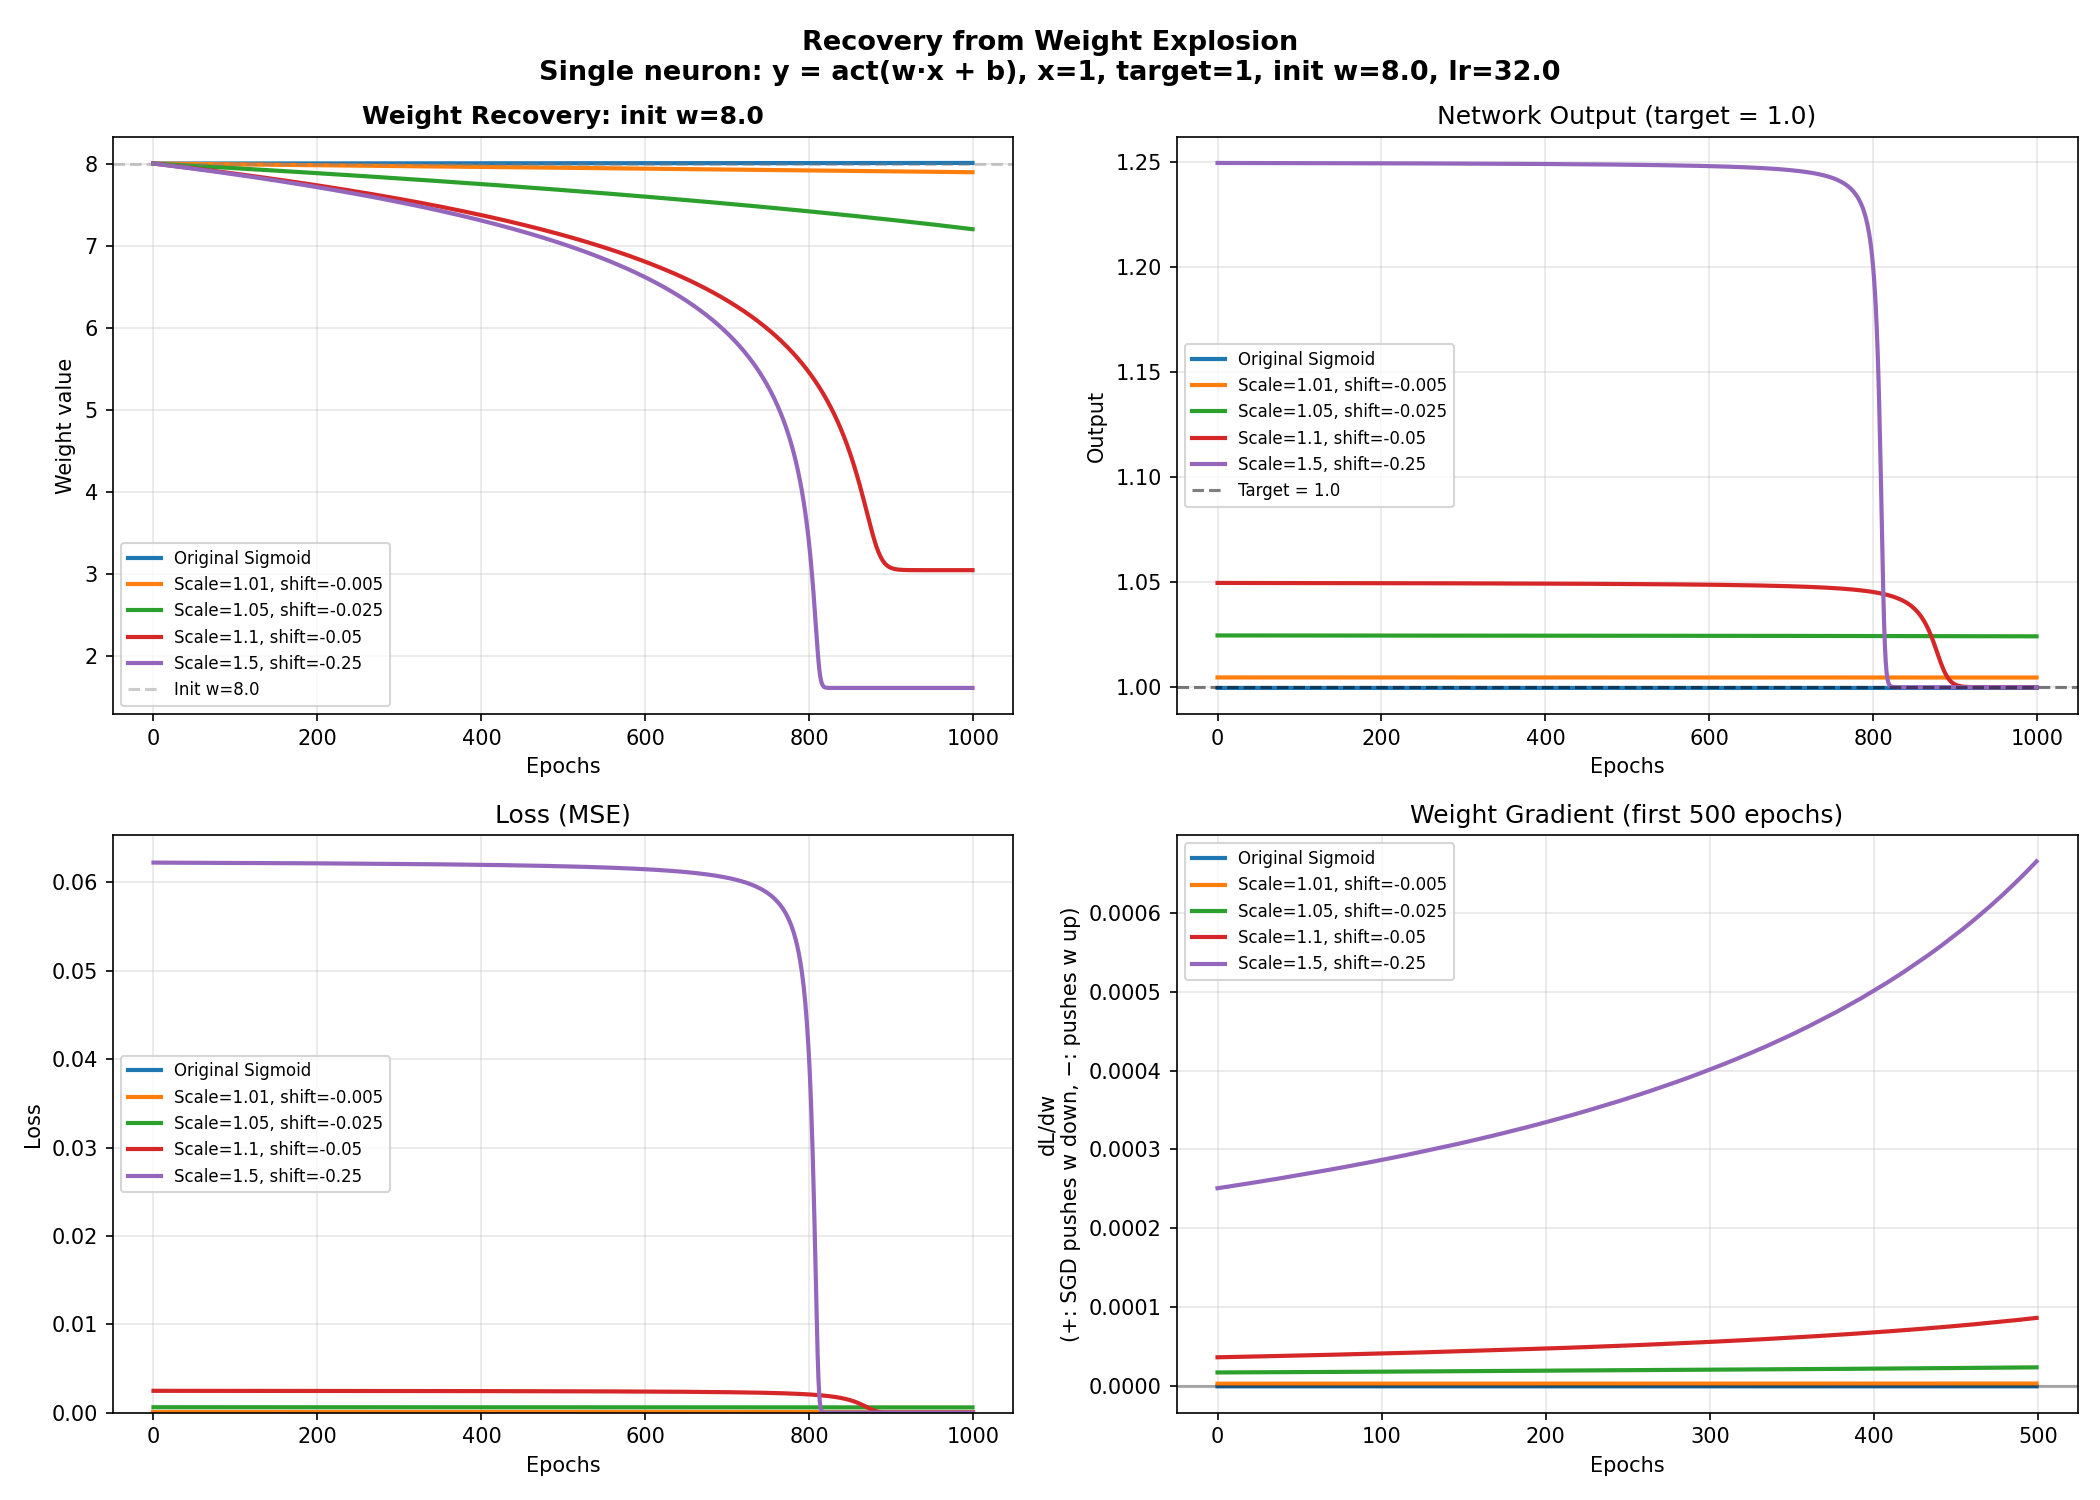
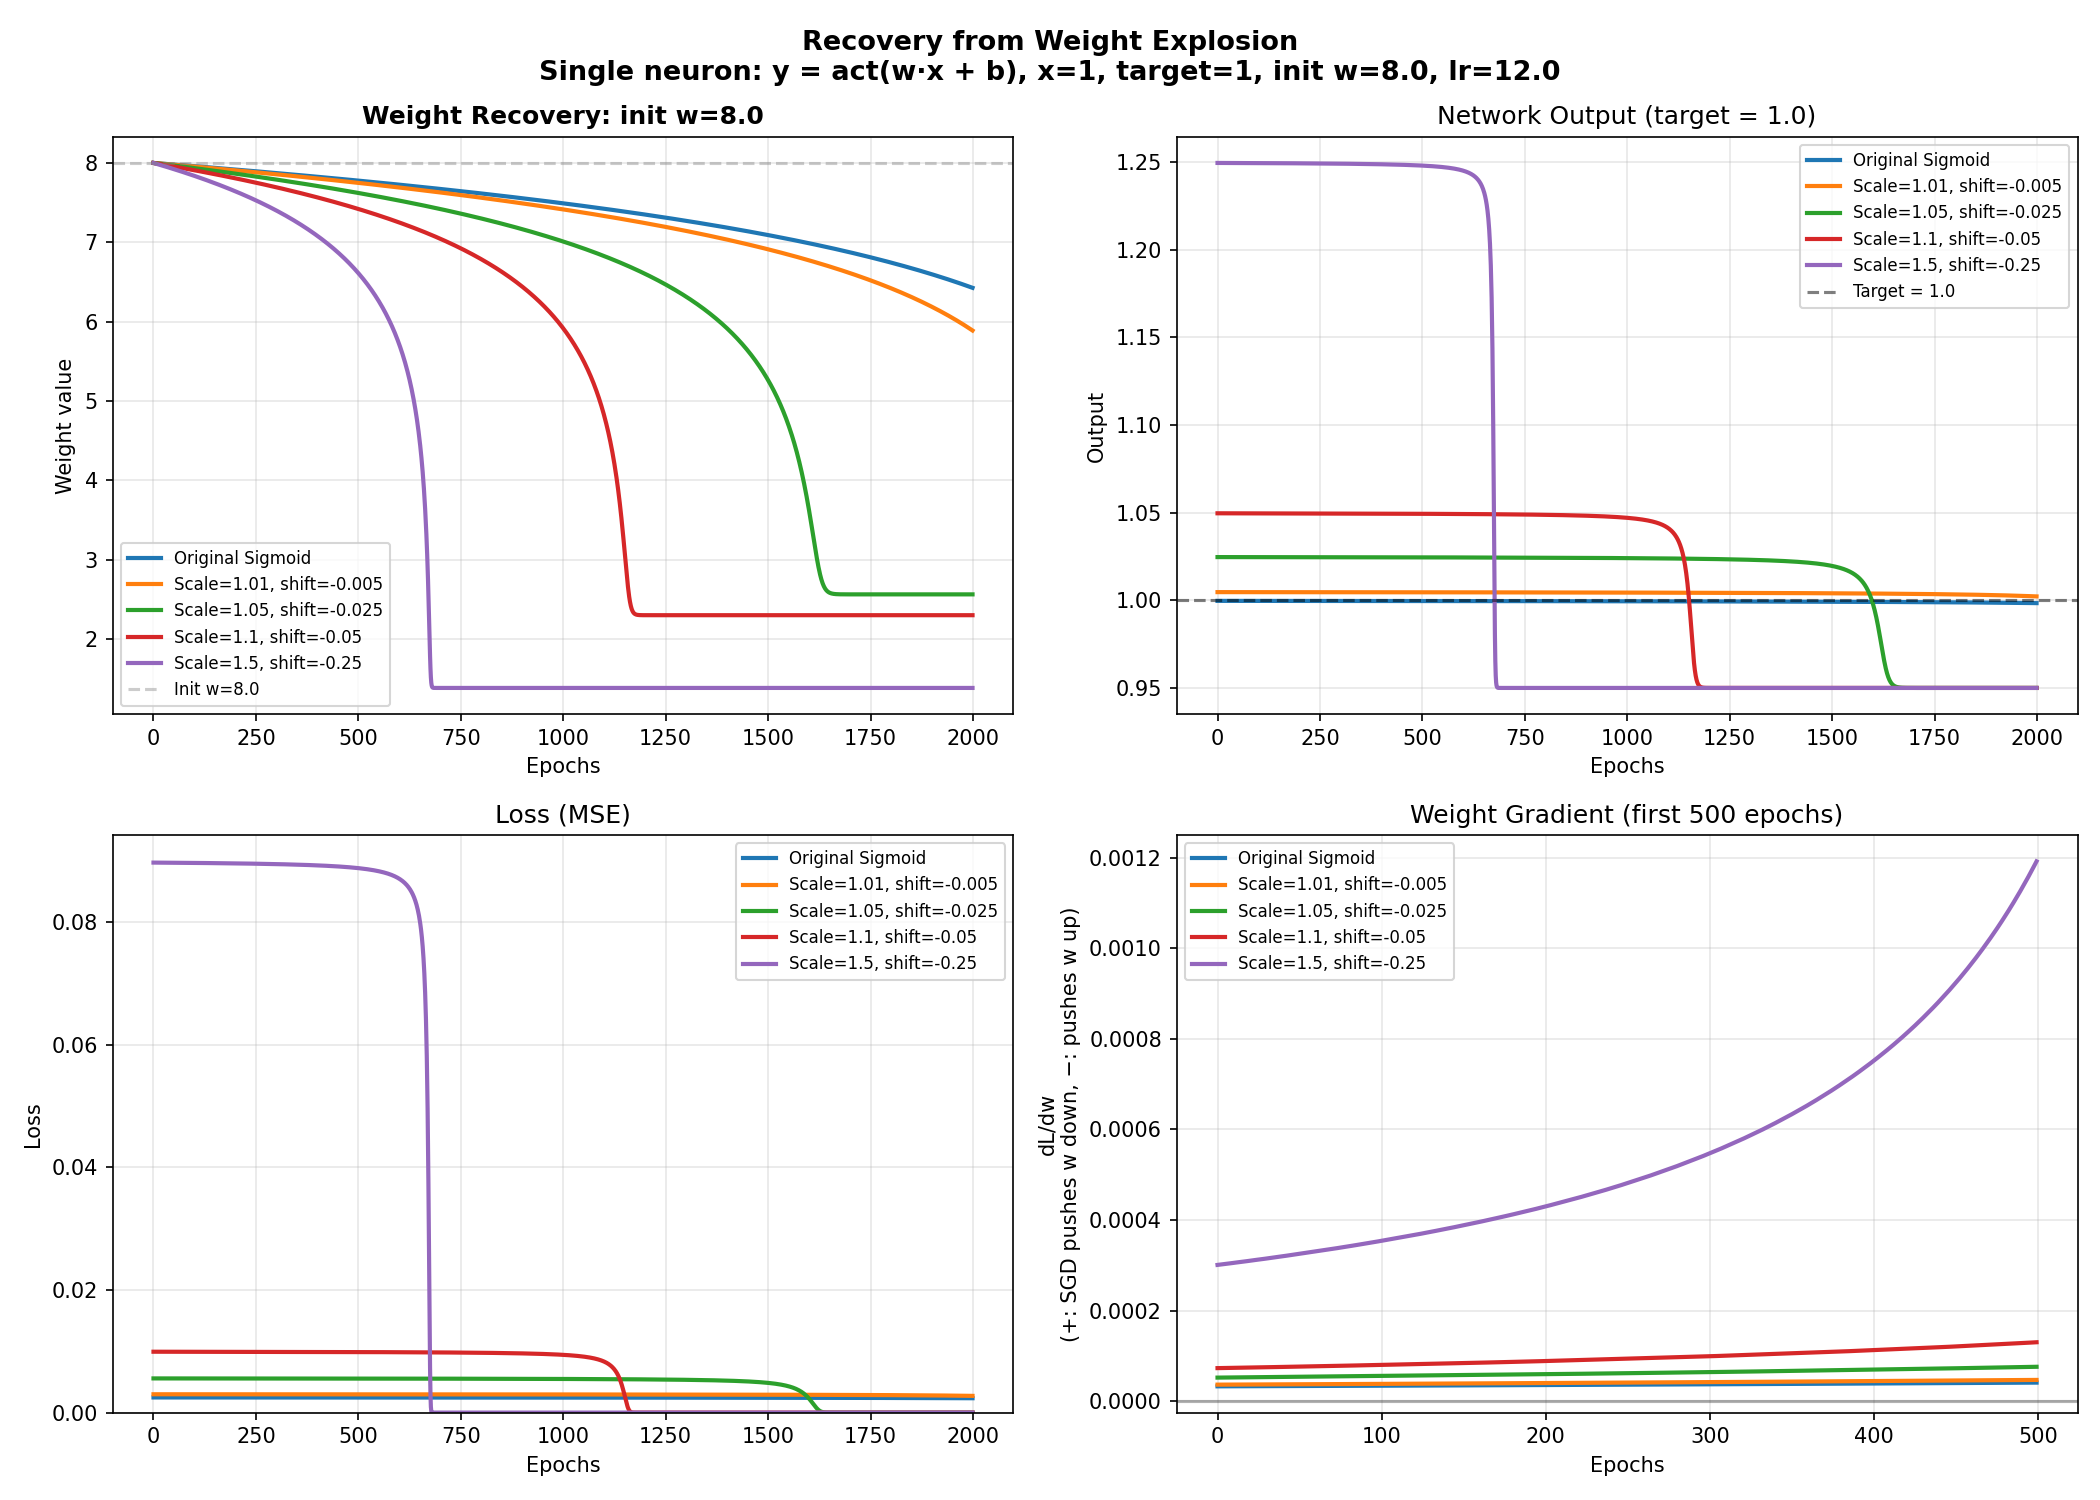
adjust the parameter for better weight

diff --git a/DemoRecovery.py b/DemoRecovery.py
@@ -29,9 +29,9 @@ from ScaledSigmoid import ScaledSigmoid
 # ScaledSigmoid OVERSHOOTS the target, creating a restoring force.
 # ==========================================
 
-INIT_WEIGHT = 8.0
-LR = 32.0       # Large LR to amplify tiny gradients for visualization
-EPOCHS = 1000
+INIT_WEIGHT = 9.0
+LR = 12.0       # Large LR to amplify tiny gradients for visualization
+EPOCHS = 2000
 
 class SingleNeuron(nn.Module):
     def __init__(self, activation_fn):
@@ -78,7 +78,7 @@ def train_single_neuron(activation_fn, x, target, init_w, init_b, lr, epochs):
 if __name__ == "__main__":
     # Single data point: x=1, target=0.5
     x = torch.tensor([[1.0]])
-    target = torch.tensor([[1.0]])
+    target = torch.tensor([[0.95]])
 
     # (name, activation, lr_override)
     # Scale=1.5 needs lower lr because its equilibrium (w≈1.6) has large gradient
@@ -154,9 +154,9 @@ if __name__ == "__main__":
     ax.grid(True, alpha=0.3)
     ax.set_ylim(bottom=0)
 
-    # 4. GRADIENT DIRECTION (first 500 epochs)
+    # 4. GRADIENT DIRECTION (all epochs)
     ax = axes[1, 1]
-    show_ep = min(500, EPOCHS)
+    show_ep = EPOCHS
     for name, r in results.items():
         ax.plot(r['grad'][:show_ep], label=name, linewidth=2)
     ax.axhline(y=0, color='black', linestyle='-', alpha=0.3)
